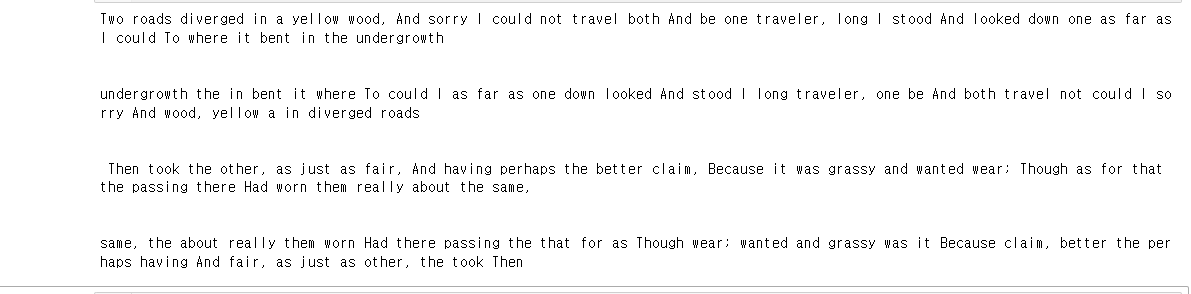
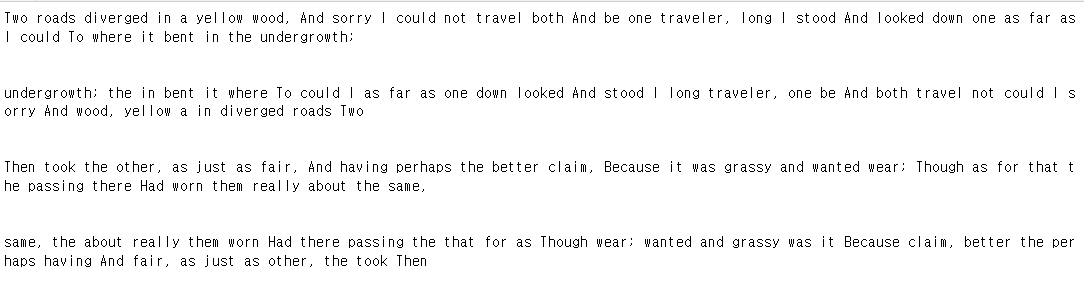
secondmodified

diff --git a/q5/question5.py b/q5/question5.py
@@ -1,79 +1,44 @@
-{
- "cells": [
-  {
-   "cell_type": "code",
-   "execution_count": 2,
-   "id": "be6cd037",
-   "metadata": {},
-   "outputs": [
-    {
-     "name": "stdout",
-     "output_type": "stream",
-     "text": [
-      "Two roads diverged in a yellow wood, And sorry I could not travel both And be one traveler, long I stood And looked down one as far as I could To where it bent in the undergrowth\n",
-      "\n",
-      "\n",
-      "undergrowth the in bent it where To could I as far as one down looked And stood I long traveler, one be And both travel not could I sorry And wood, yellow a in diverged roads \n",
-      "\n",
-      "\n",
-      " Then took the other, as just as fair, And having perhaps the better claim, Because it was grassy and wanted wear; Though as for that the passing there Had worn them really about the same,\n",
-      "\n",
-      "\n",
-      "same, the about really them worn Had there passing the that for as Though wear; wanted and grassy was it Because claim, better the perhaps having And fair, as just as other, the took Then \n"
-     ]
-    }
-   ],
-   "source": [
-    "def main():\n",
-    "    string1 = \"Two roads diverged in a yellow wood, And sorry I could not travel both And be one traveler, long I stood And looked down one as far as I could To where it bent in the undergrowth\"\n",
-    "    string2 = \" Then took the other, as just as fair, And having perhaps the better claim, Because it was grassy and wanted wear; Though as for that the passing there Had worn them really about the same,\"\n",
-    "    print(string1)\n",
-    "    print(\"\\n\")\n",
-    "    reverse_words(string1)\n",
-    "    print(\"\\n\")\n",
-    "    print(string2)\n",
-    "    print(\"\\n\")\n",
-    "    reverse_words(string2)\n",
-    "def reverse_words(string):\n",
-    "    str_list = string.split(\" \")\n",
-    "    string3 = \"\"\n",
-    "    for i in range(len(str_list)-1, 0, -1):\n",
-    "        string3 += str_list[i]\n",
-    "        string3 += \" \"\n",
-    "    print(string3)\n",
-    "\n",
-    "if __name__ == '__main__' :\n",
-    "    main()"
-   ]
-  },
-  {
-   "cell_type": "code",
-   "execution_count": null,
-   "id": "ae0c80fe",
-   "metadata": {},
-   "outputs": [],
-   "source": []
-  }
- ],
- "metadata": {
-  "kernelspec": {
-   "display_name": "Python 3 (ipykernel)",
-   "language": "python",
-   "name": "python3"
-  },
-  "language_info": {
-   "codemirror_mode": {
-    "name": "ipython",
-    "version": 3
-   },
-   "file_extension": ".py",
-   "mimetype": "text/x-python",
-   "name": "python",
-   "nbconvert_exporter": "python",
-   "pygments_lexer": "ipython3",
-   "version": "3.9.1"
-  }
- },
- "nbformat": 4,
- "nbformat_minor": 5
-}
+#!/usr/bin/env python
+# coding: utf-8
+
+# In[8]:
+
+
+def main():
+    string1 = "Two roads diverged in a yellow wood, And sorry I could not travel both And be one traveler, long I stood And looked down one as far as I could To where it bent in the undergrowth;"
+    string2 = "Then took the other, as just as fair, And having perhaps the better claim, Because it was grassy and wanted wear; Though as for that the passing there Had worn them really about the same,"
+    print(string1)
+    print("\n")
+    reverse_words(string1)
+    print("\n")
+    print(string2)
+    print("\n")
+    reverse_words(string2)
+    
+    
+def reverse_words(string):
+    str_list = string.split(" ")
+    string3 = ""
+    for i in range(len(str_list)-1,-1,-1):
+        string3 += str_list[i]
+        if(i != 0):
+            string3 += " "
+            
+        
+    print(string3)
+        
+    
+    
+    
+if __name__ == '__main__':
+    main()
+    
+
+                                
+
+
+# In[ ]:
+
+
+
+
